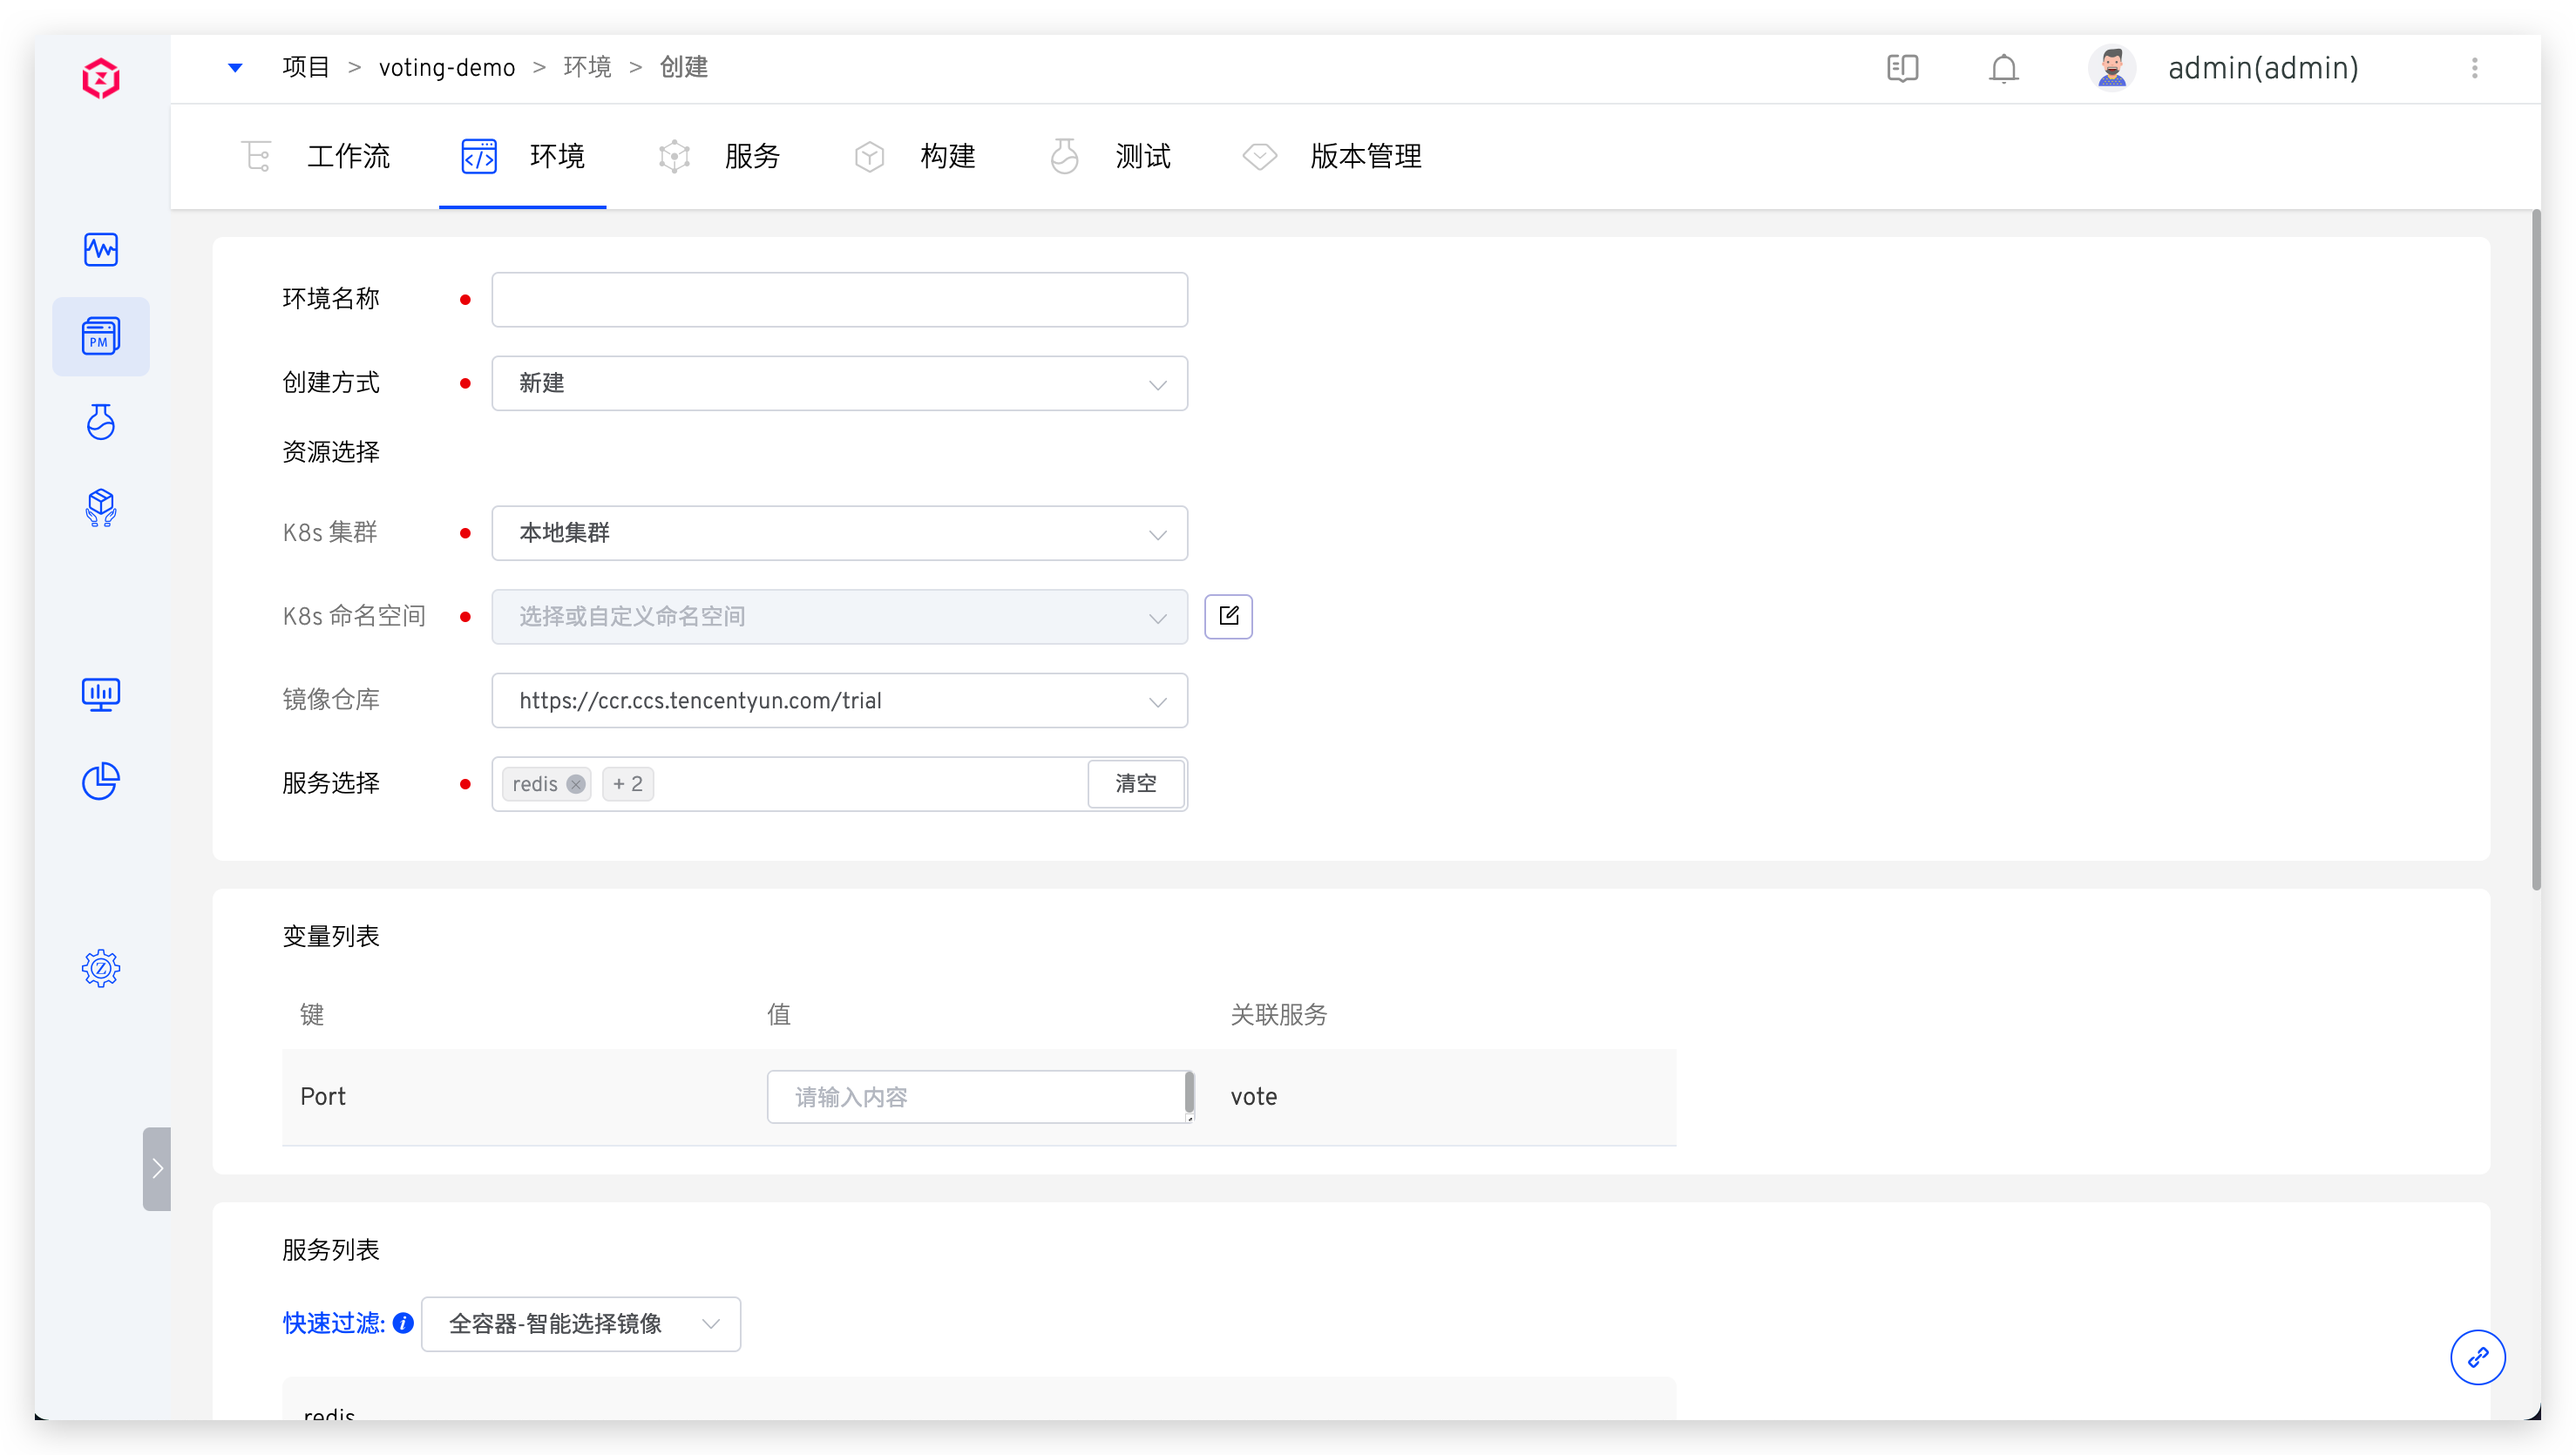
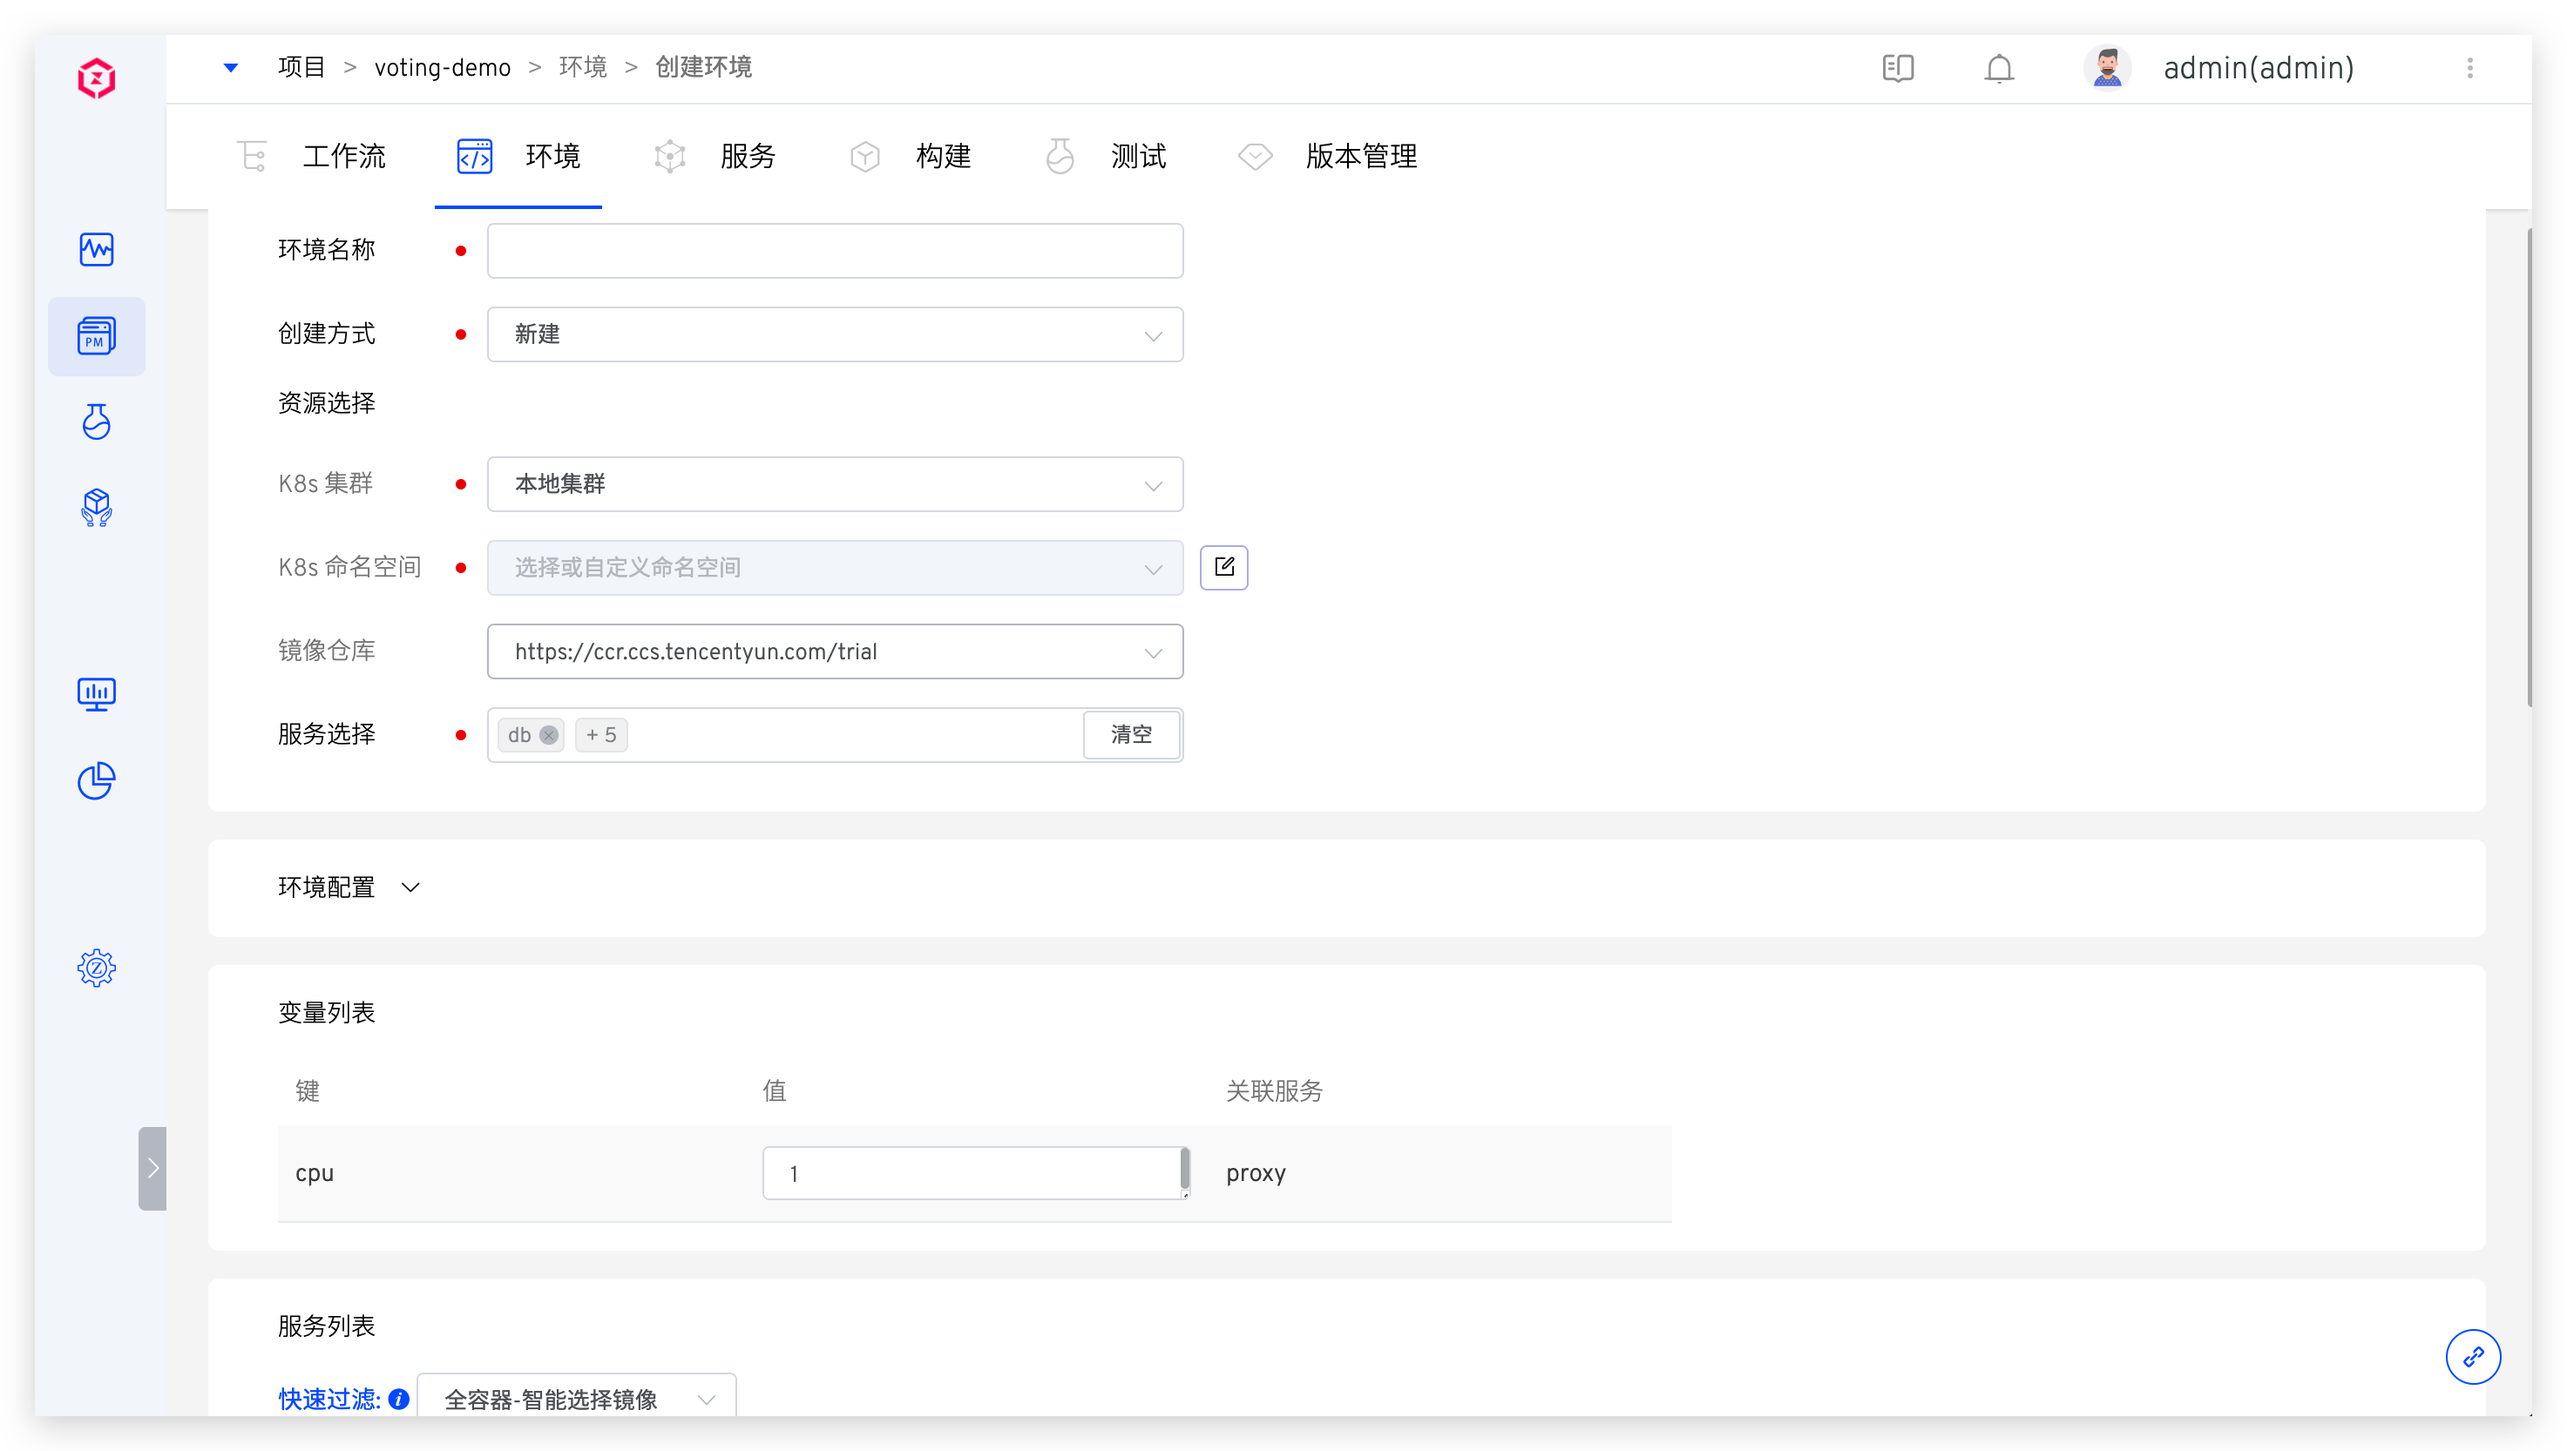
add env config when creating env

diff --git a/dev/04.项目/03.环境/02.k8s_helm_environment.md b/dev/04.项目/03.环境/02.k8s_helm_environment.md
@@ -25,6 +25,17 @@ permalink: /dev/project/env/helm/chart/
 	- `K8s 命名空间`：不同的环境会使用独立的 Kubernetes 命名空间实现隔离。Zadig 系统创建命名空间的默认规则为 `项目名-env-环境名`，用户也可以自定义或者选择已有命名空间。
 	- `镜像仓库`：指定环境创建后所使用的镜像仓库，使用工作流构建部署服务，以及修改服务镜像，均会使用此处指定的镜像仓库。关于镜像仓库的集成可参考[镜像仓库管理](/dev/settings/image-registry/#添加镜像仓库)。
 
+### 环境配置
+
+在创建环境时为环境创建配置，说明如下：
+
+- 可创建多个 Ingress、ConfigMap、Secret、PVC 类型的配置
+- 支持直接粘贴 Ingress、ConfigMap、Secret、PVC 类型的 K8s YAML 文件内容
+- 支持从代码库导入 Ingress、ConfigMap、Secret、PVC 类型的 K8s YAML 文件
+- 环境创建成功后，此处新建的配置即会在环境/集群中生效
+
+![新建 Helm Chart 环境配置](../_images/add_k8s_helm_chart_env_config.png)
+
 ### 全局服务变量
 点击展开`全局服务变量`，可修改 values 文件内容设置环境级别的变量值，系统支持 2 种方式设置全局服务变量：
 

diff --git a/dev/04.项目/03.环境/01.k8s_environment.md b/dev/04.项目/03.环境/01.k8s_environment.md
@@ -22,6 +22,16 @@ permalink: /dev/project/env/k8s/
 	- `镜像仓库`：指定环境创建后所使用的镜像仓库，使用工作流构建部署服务，以及修改服务镜像，均会使用此处指定的镜像仓库。关于镜像仓库的集成可参考[镜像仓库管理](/dev/settings/image-registry/#添加镜像仓库)。
 - `服务选择`：选择创建环境所包含的服务，默认为当前项目下的所有服务。
 
+### 环境配置
+在创建环境时为环境创建配置，说明如下：
+
+- 可创建多个 Ingress、ConfigMap、Secret、PVC 类型的配置
+- 支持直接粘贴 Ingress、ConfigMap、Secret、PVC 类型的 K8s YAML 文件内容
+- 支持从代码库导入 Ingress、ConfigMap、Secret、PVC 类型的 K8s YAML 文件
+- 环境创建成功后，此处新建的配置即会在环境/集群中生效
+
+![新建环境配置](../_images/add_k8s_yaml_env_config.png)
+
 ### 变量列表
 
 > 此处的变量列表包括服务配置中的[自定义变量](/dev/project/service/#变量配置)，创建服务时可以按需设置其默认值。
